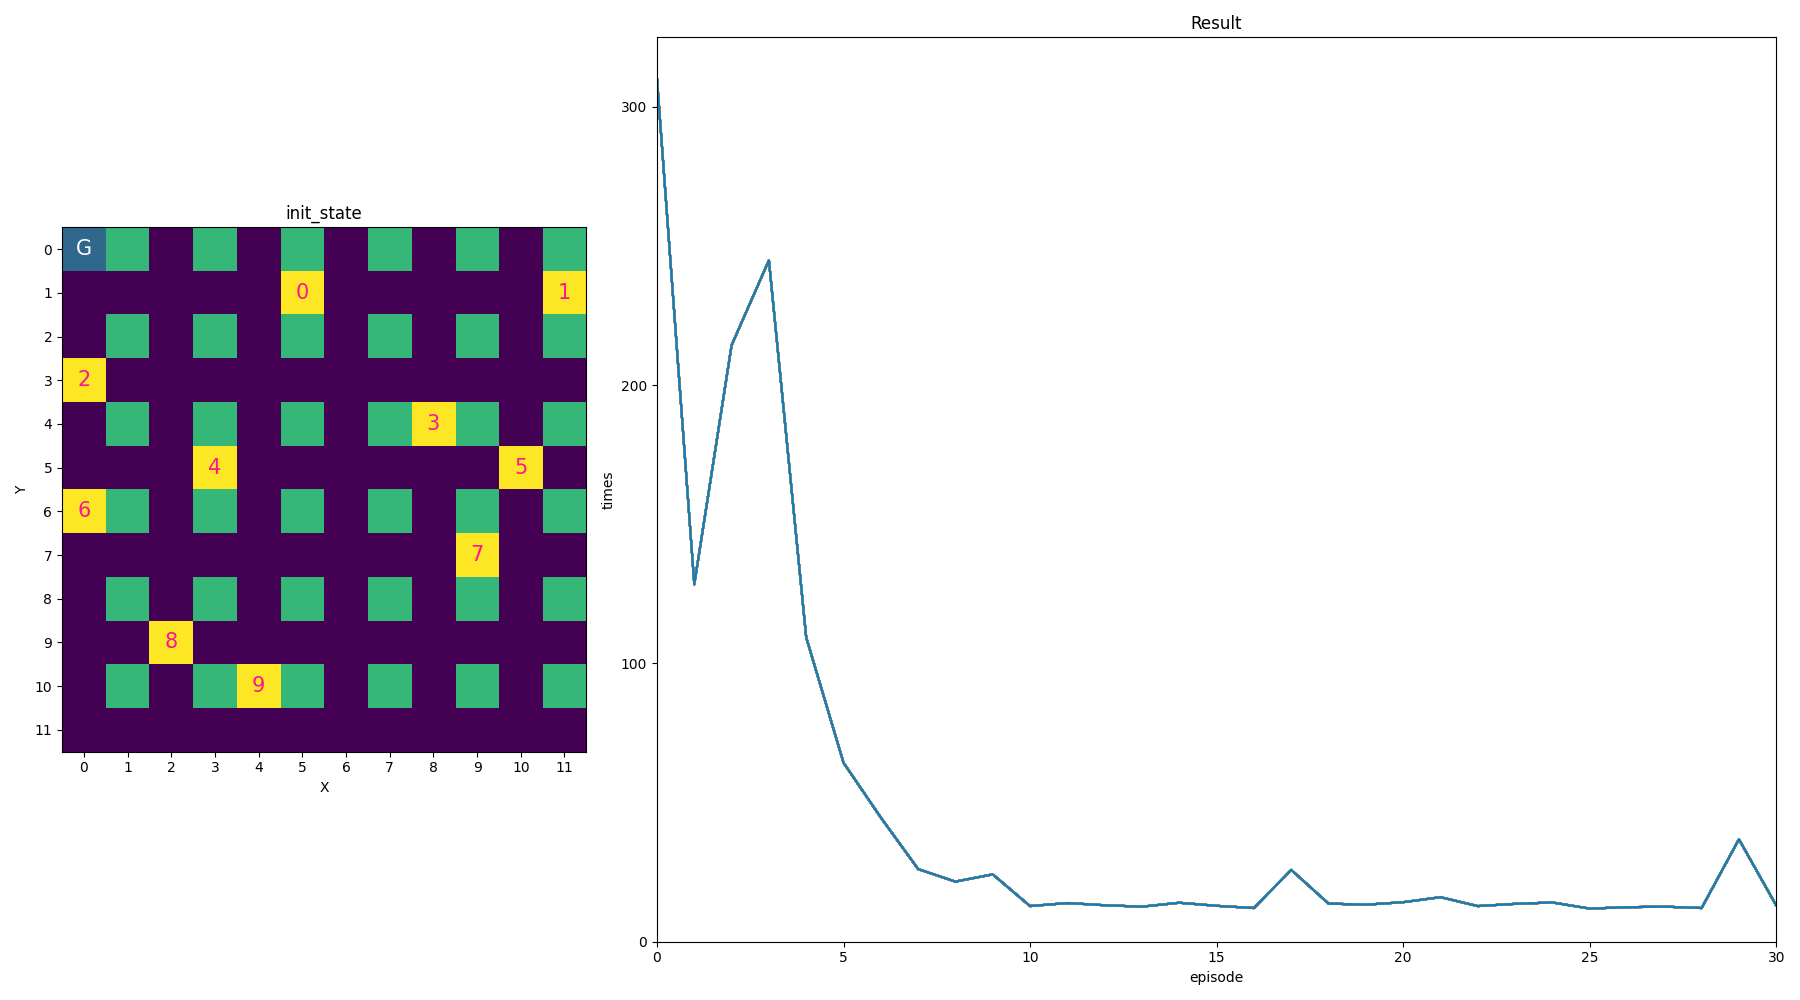
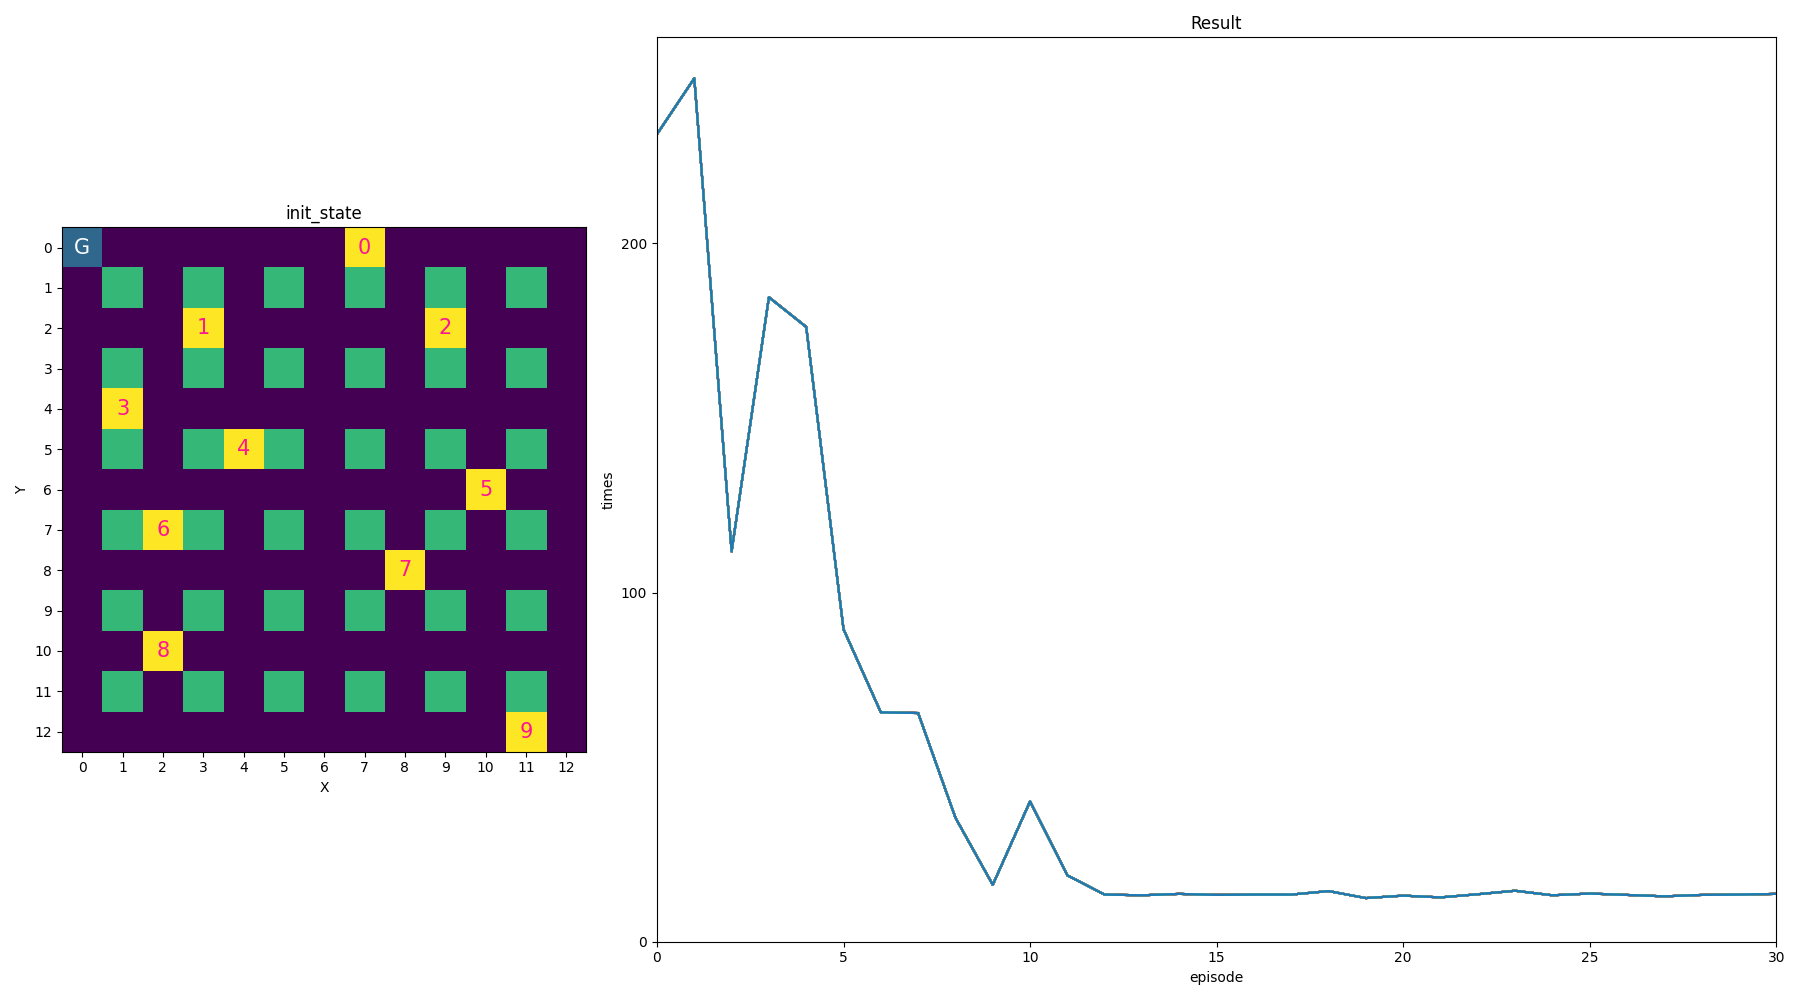
01/05 21:48 map改装

diff --git a/multi.py b/multi.py
@@ -10,8 +10,8 @@ from main import Plotting
 
 # 定数
 NB_EPISODE = 31   # エピソード数
-X_MAX = 12
-Y_MAX = 12
+X_MAX = 13
+Y_MAX = 13
 POPULATION = 10
 start = time.time()
 
@@ -20,16 +20,16 @@ if __name__ == '__main__':
         x_max=X_MAX,
         y_max=Y_MAX)
 
-    decided_zero = [grid_env.zero_list[10],
-                    grid_env.zero_list[16],
-                    grid_env.zero_list[23],
-                    grid_env.zero_list[39],
-                    grid_env.zero_list[44],
-                    grid_env.zero_list[51],
-                    grid_env.zero_list[53],
-                    grid_env.zero_list[68],
-                    grid_env.zero_list[79],
-                    grid_env.zero_list[91]]
+    decided_zero = [grid_env.zero_list[6],
+                    grid_env.zero_list[22],
+                    grid_env.zero_list[28],
+                    grid_env.zero_list[40],
+                    grid_env.zero_list[54],
+                    grid_env.zero_list[69],
+                    grid_env.zero_list[73],
+                    grid_env.zero_list[87],
+                    grid_env.zero_list[101],
+                    grid_env.zero_list[130]]
     
     summon = Summon(             # エージェントの召喚
         zero_list=decided_zero,

diff --git a/grid_world.py b/grid_world.py
@@ -21,8 +21,8 @@ class GridWorld:
             "RIGHT": 3
         }
         self.map_arr = np.zeros((y_max,x_max))
-        self.map_arr[::2] = 2 
-        self.map_arr[:, ::2] = 0
+        self.map_arr[:, 1::2] = 2 
+        self.map_arr[::2] = 0
         self.map_arr[0,0] = 1
         #self.map_arr[x_max-1,0] = 1
         self.map = self.map_arr.tolist()
